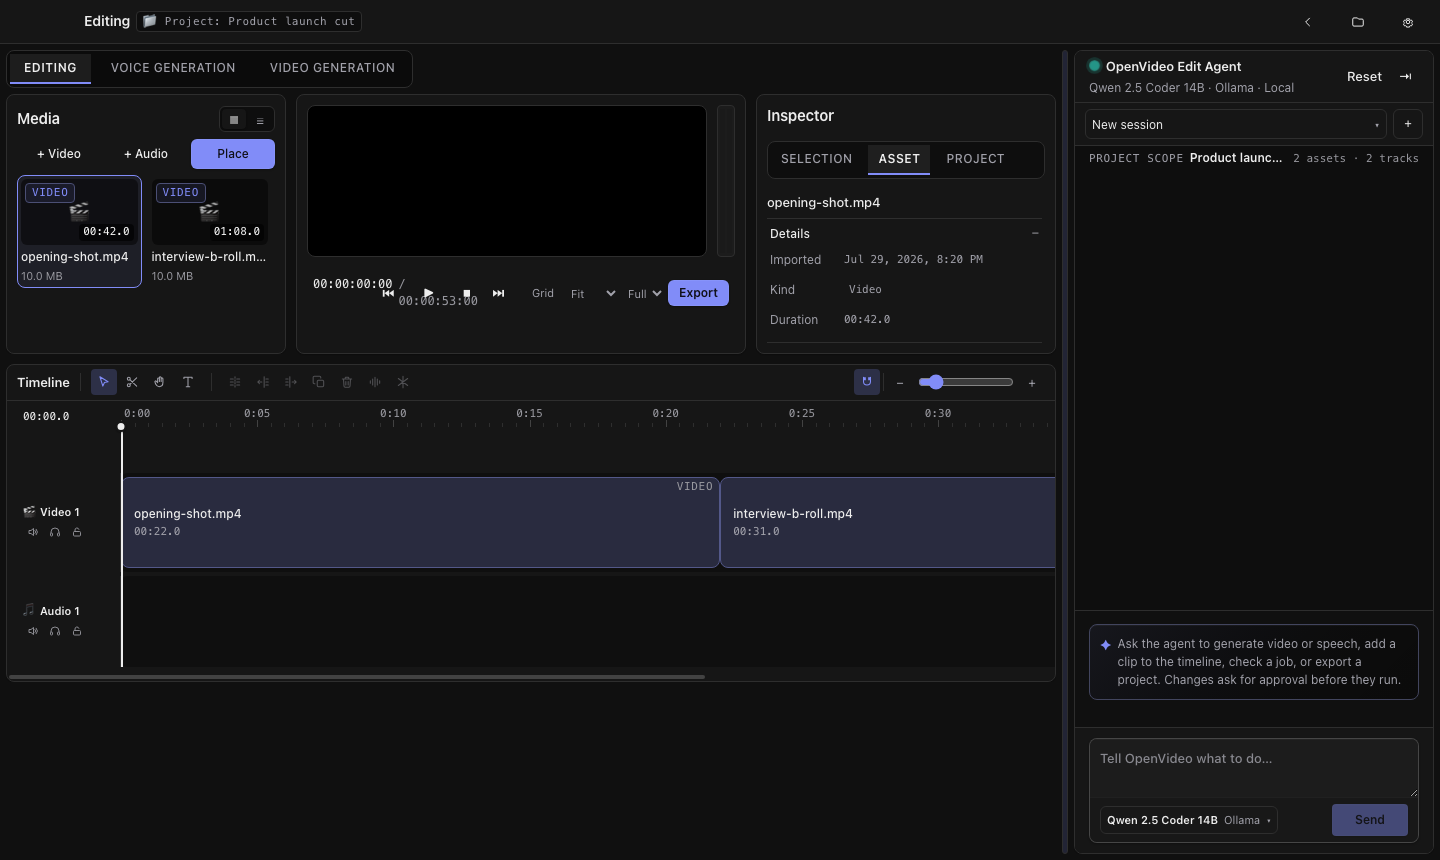
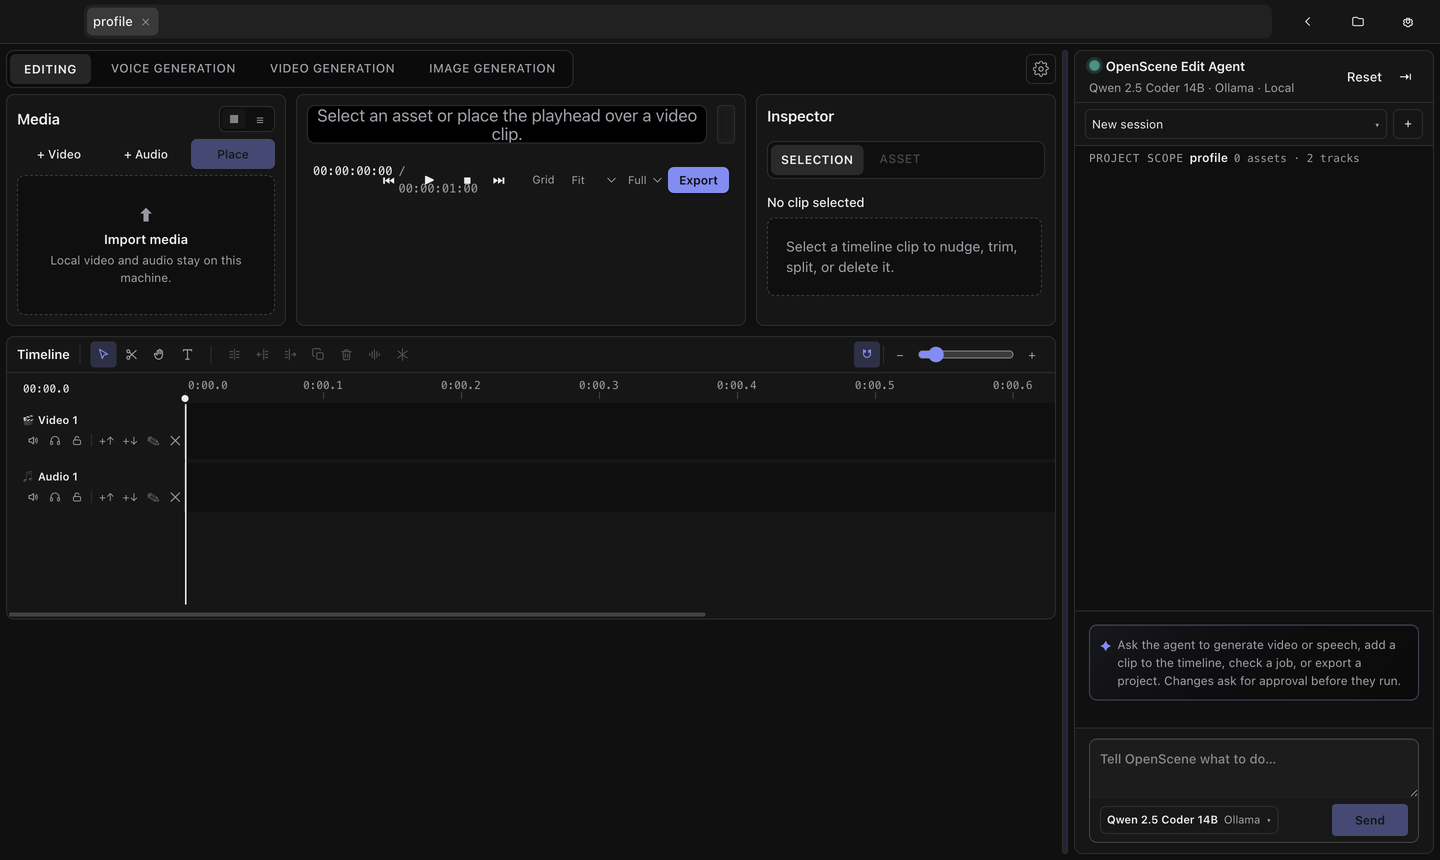
docs: retake the screenshots, which still said OpenVideo
Every one of them showed "OpenVideo Edit Agent" and "Tell OpenVideo what
to do…" at the top of a README that says OpenScene. They are captures of
a running app, so the rename could not reach them; they had to be taken
again.

Taken over the DevTools protocol rather than by clicking the screen.
Driving the mouse needs macOS accessibility control granted to the app
that hosts the shell, which is a broad permission and would have needed
that app relaunched; a renderer debug port, opened locally and reverted
immediately, clicks real DOM elements instead of guessing coordinates and
captures the window with no desktop around it. The viewport is overridden
to the 1440x860 the README shows, because the real window is narrower and
was squeezing the monitor and the inspector.

They also carry a year of UI the old ones predate: an Image Generation
studio, which had a section here and no picture, and Veo 3.1 in the video
model picker.

The editor shot is of an empty project. Importing media opens a native
file dialog, which the protocol cannot reach — so the choice was an
honest empty timeline or leaving an image that names the wrong product,
and the alt text now says which it is.

diff --git a/README.md b/README.md
@@ -41,11 +41,11 @@ Nothing is uploaded on its own. Model providers are opt-in, connected one at a t
 
 Open a folder and you land in the workspace. One tab strip switches between editing and the two generation studios; the agent chat stays docked beside all three.
 
-![The OpenScene editing workspace: media bin, program monitor, inspector, timeline, and the Edit Agent chat panel](docs/assets/screenshot-editor.png)
+![The OpenScene editing workspace on a new project: media bin, program monitor, inspector, timeline tracks, and the Edit Agent chat panel docked on the right](docs/assets/screenshot-editor.png)
 
 Projects and past conversations live on the start page. Picking a chat reopens its project and restores the transcript.
 
-![The Projects page listing project folders beside grouped Edit Agent chat history](docs/assets/screenshot-projects.png)
+![The Projects page listing project folders beside Edit Agent chat history](docs/assets/screenshot-projects.png)
 
 ### Editing
 
@@ -71,6 +71,8 @@ Prompt with a style, aspect ratio, and duration — and optionally a reference i
 ### Image generation
 
 Stills from a prompt, at the aspect ratio you need — and a seed for image-to-video on the engines that accept one.
+
+![The Image Generation studio with model, aspect ratio, and prompt controls](docs/assets/screenshot-image.png)
 
 ## The Edit Agent
 
